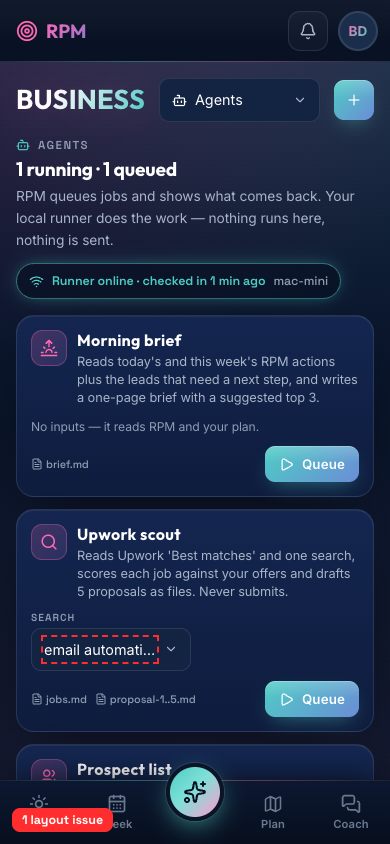
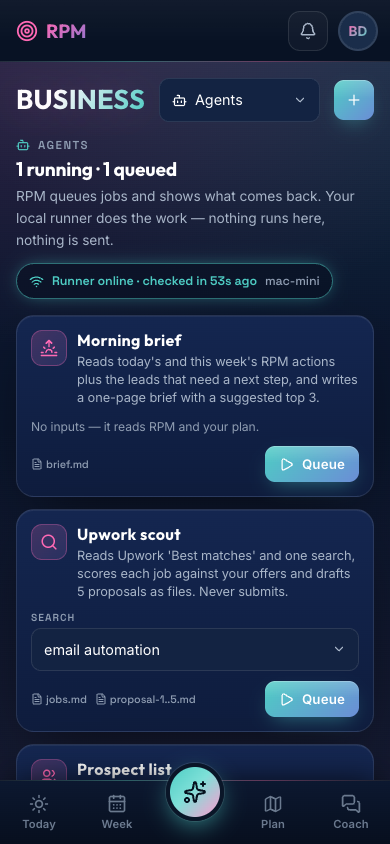
fix(business): critic round 4 — job pickers never clip, editor preview honours P0 override, revenue lines labelled
- Agents: every job input is full width under 640px and pickers carry their full value as a title.
- Editor live preview shows "Blocked by a P0" (+ the typed value) from the same backend readiness.
- Results / Revenue call revenue-model entries "revenue lines", not channels.
- fixes-1440 retaken page-tall so the "Not tied to an offer" section is visible.

Changed region(s): [[0.5231, 0.3081, 0.8615, 0.3697], [0.0308, 0.955, 0.3077, 0.9858], [0.3692, 0.7393, 0.4, 0.8009]]

diff --git a/rpm-system/frontend/src/components/business/Revenue.jsx b/rpm-system/frontend/src/components/business/Revenue.jsx
@@ -80,7 +80,7 @@ export default function Revenue() {
   return (
     <section className="bz-lens bz-revenue">
       <LensHead icon={TrendingUp} kicker="Revenue model" title={model.length ? `${money(total, cur)} ${scen} case` : 'No model yet'}
-        read={target ? `${Math.round((total / target) * 100)}% of the ${money(target, cur)} target in the ${scen} case. Expected cash per channel = volume × convert % × ticket.` : 'Link a cash key result on the mission flow to compare the model with your target.'}>
+        read={target ? `${Math.round((total / target) * 100)}% of the ${money(target, cur)} target in the ${scen} case. Each revenue line: volume × convert % × ticket (lines can span several channels).` : 'Link a cash key result on the mission flow to compare the model with your target.'}>
         {model.length > 0 && (
           <div className="ui-seg bz-seg-sm" role="radiogroup" aria-label="Scenario">
             {Object.entries(SCENARIOS).map(([k, m]) => (
@@ -88,12 +88,12 @@ export default function Revenue() {
             ))}
           </div>
         )}
-        {model.length > 0 && <button type="button" className="btn btn-secondary" onClick={() => setModel((m) => [...m, blank(m.length)])}><Plus size={16} /> Channel</button>}
+        {model.length > 0 && <button type="button" className="btn btn-secondary" onClick={() => setModel((m) => [...m, blank(m.length)])}><Plus size={16} /> Revenue line</button>}
       </LensHead>
 
       {model.length === 0 ? (
         <BizEmpty icon={TrendingUp} title="No revenue model yet" text="List the channels that could bring money, how many attempts you will make, what share converts and the ticket. You get a low / base / high forecast against your cash target."
-          onAdd={() => setModel([blank(0)])} addLabel="Add a channel" onTemplate={template} />
+          onAdd={() => setModel([blank(0)])} addLabel="Add a revenue line" onTemplate={template} />
       ) : (
         <div className="bz-rev" ref={setRoot}>
           <FlowLinks root={root} links={links} active={hot} simplify={phone} version={`${model.length}-${scen}-${phone}`} />
@@ -103,7 +103,7 @@ export default function Revenue() {
               return (
                 <article key={c.id || i} className="bz-rev-row" onMouseEnter={() => setHover(i)} onMouseLeave={() => setHover(null)}>
                   <header className="bz-rev-head">
-                    <textarea rows={1} className="bz-in bz-rev-name" aria-label="Channel name" placeholder="Channel name" value={c.name} onChange={(e) => set(i, 'name', e.target.value.replace(/\n/g, ' '))} />
+                    <textarea rows={1} className="bz-in bz-rev-name" aria-label="Revenue line name" placeholder="Revenue line (e.g. Upwork proposals)" value={c.name} onChange={(e) => set(i, 'name', e.target.value.replace(/\n/g, ' '))} />
                     <button type="button" className="bz-icon-btn" aria-label={`Remove ${c.name || 'channel'}`} onClick={() => setModel((m) => m.filter((_, j) => j !== i))}><Trash2 size={15} /></button>
                     <span className={`bz-rev-cash ${v > 0 ? '' : 'quiet'}`}>{money(v, cur)}</span>
                   </header>

diff --git a/rpm-system/frontend/src/components/business/bizKit.jsx b/rpm-system/frontend/src/components/business/bizKit.jsx
@@ -236,7 +236,7 @@ export function BizEditor({ section, row, defaults = {}, icon, onSave, onClose, 
           </div>
           <aside className="bz-ed-preview" aria-label="Live preview">
             <p className="ui-kicker">Live preview</p>
-            <EditorPreview section={section} fields={fields} form={form} options={dyn} />
+            <EditorPreview section={section} fields={fields} form={form} options={dyn} readiness={row ? ctx?.sum?.flow?.links?.offerReadiness?.[row.id] : null} />
           </aside>
         </div>
         <div className="modal-footer mk-foot">
@@ -262,13 +262,16 @@ const SHORT = new Set(['price', 'effort', 'platform', 'source', 'product', 'repo
 const isWide = (f) => f.wide || f.hero || !(SHORT.has(f.k) || ['date', 'enum', 'bool', 'number'].includes(f.type));
 
 /** What the row will look like, as you type: the card it becomes in its lens. */
-function EditorPreview({ section, fields, form, options }) {
+function EditorPreview({ section, fields, form, options, readiness }) {
   const hero = fields.find((f) => f.hero) || fields[0];
   const label = (f) => {
     const opts = f.optionsFrom ? options[f.optionsFrom] : f.options;
     return (opts || []).find((o) => o.value === form[f.k])?.label;
   };
-  const chips = fields.filter((f) => f.type === 'enum' && label(f) && form[f.k] !== '').map((f) => ({ k: f.k, text: label(f), tone: f.k === 'readiness' || f.k === 'tone' ? TONE_CHIP[form[f.k]] : f.k === 'fit' ? FIT[form[f.k]]?.tone : f.k === 'severity' ? (form[f.k] === 'P0' ? 'bad' : form[f.k] === 'P1' ? 'warn' : undefined) : undefined }));
+  // an open P0 blocker overrides the typed readiness (backend fixBlocks), exactly as on the offer card
+  const p0 = section === 'offers' && readiness?.p0Blocked;
+  const chips = fields.filter((f) => f.type === 'enum' && label(f) && form[f.k] !== '').map((f) => (p0 && f.k === 'readiness' ? { k: f.k, text: 'Blocked by a P0', tone: 'bad' } : { k: f.k, text: label(f), tone: f.k === 'readiness' || f.k === 'tone' ? TONE_CHIP[form[f.k]] : f.k === 'fit' ? FIT[form[f.k]]?.tone : f.k === 'severity' ? (form[f.k] === 'P0' ? 'bad' : form[f.k] === 'P1' ? 'warn' : undefined) : undefined }));
+  if (p0) chips.push({ k: 'was', text: `set: ${label(fields.find((f) => f.k === 'readiness'))}`, tone: undefined });
   const text = fields.filter((f) => f.type === 'textarea' && String(form[f.k] || '').trim()).slice(0, 2);
   const ladder = section === 'offers' ? String(form.ladder || '').split('\n').filter((l) => l.trim()).map((l) => l.split('|').map((x) => x.trim())) : [];
   const stage = section === 'leads' ? STAGES.findIndex((x) => x.value === form.stage) : -1;

diff --git a/rpm-system/frontend/src/components/business/Results.jsx b/rpm-system/frontend/src/components/business/Results.jsx
@@ -65,7 +65,8 @@ export default function Results() {
     agg[`${key}|${role}`] = (agg[`${key}|${role}`] || 0) + n;
     src[key] = (src[key] || 0) + n;
   }
-  const sources = Object.entries(src).map(([key, n]) => ({ key, label: key === '-' ? 'No channel' : key, n })).sort((a, b) => b.n - a.n);
+  const isLine = (key) => model.some((m) => m.name === key);
+  const sources = Object.entries(src).map(([key, n]) => ({ key, label: key === '-' ? 'No channel' : key, n, line: isLine(key) })).sort((a, b) => b.n - a.n);
   const roleN = {}; for (const [k, n] of Object.entries(agg)) { const role = k.split('|')[1]; roleN[role] = (roleN[role] || 0) + n; }
   const prev = { reply: 'sent', call: 'reply', proof: 'call', won: 'proof' };
   const outs = ORDER.filter((r) => roleN[r]).map((role) => {
@@ -158,10 +159,10 @@ export default function Results() {
           <div className="bz-sankey" ref={setRoot}>
             <FlowLinks root={root} links={links} simplify={phone} version={`${list.rows.length}-${phone}`} />
             <div className="bz-sankey-col" data-node-group="from">
-              <p className="bz-col-title">From channel</p>
+              <p className="bz-col-title">From channel or revenue line</p>
               {sources.map((c) => (
                 <div key={c.key} data-node={`rc:${c.key}`} className={`bz-node kind-src ${c.key === '-' ? 'quiet' : ''}`}>
-                  <span className="bz-node-name">{c.label}</span><b className="bz-node-n">{c.n}</b>
+                  <span className="bz-node-name">{c.label}{c.line && <small className="bz-node-sub">revenue line</small>}</span><b className="bz-node-n">{c.n}</b>
                 </div>
               ))}
             </div>
@@ -190,7 +191,7 @@ export default function Results() {
                           {r.views != null && <span> · {Number(r.views).toLocaleString()} views</span>}
                           <span className="bz-tl-date">{fmtDate(r.date)}</span></span>
                         <span className="bz-tl-meta">
-                          {r.channel && <span className="bz-entry-chan">from {chanLabel(r.channel)}</span>}
+                          {r.channel && <span className="bz-entry-chan">from {chanLabel(r.channel)}{isLine(chanLabel(r.channel)) ? ' (revenue line)' : ''}</span>}
                           {r.lead_id && leadName(r.lead_id) && <span className="bz-entry-lead">→ {leadName(r.lead_id)}</span>}
                         </span>
                         {r.note && <small>{r.note}</small>}

diff --git a/rpm-system/frontend/src/components/business/Agents.jsx b/rpm-system/frontend/src/components/business/Agents.jsx
@@ -152,7 +152,7 @@ export default function Agents() {
                     {job.inputs.map((f) => (
                       <label key={f.key} className="bz-job-field"><span>{f.label}</span>
                         {f.type === 'choice'
-                          ? <Picker value={valueOf(job, f)} header={f.label} options={f.options.map((o) => ({ value: o, label: o.replace('_', ' ') }))} onChange={(v) => setVal(job, f.key, v)} />
+                          ? <Picker value={valueOf(job, f)} header={f.label} title={`${f.label}: ${String(valueOf(job, f)).replace('_', ' ')}`} options={f.options.map((o) => ({ value: o, label: o.replace('_', ' ') }))} onChange={(v) => setVal(job, f.key, v)} />
                           : <input className="bz-in" value={valueOf(job, f)} maxLength={f.max || 200} onChange={(e) => setVal(job, f.key, e.target.value)} />}
                       </label>
                     ))}

diff --git a/rpm-system/frontend/src/components/business/Business.css b/rpm-system/frontend/src/components/business/Business.css
@@ -1025,3 +1025,6 @@
 /* agents: when the runner is online, setup shrinks to a link */
 .biz-page details.bz-howto.mini:not([open]) { border: 0; background: none; padding: 4px 0; margin-top: 4px; }
 .biz-page details.bz-howto.mini:not([open]) > summary { font-size: 0.66rem; color: var(--text-muted); }
+
+/* agents on narrow screens: every job input full width, so picker values never clip */
+@media (max-width: 640px) { .biz-page .bz-job-inputs { grid-template-columns: minmax(0, 1fr) !important; } .biz-page .bz-job-field .picker-trigger { width: 100%; } }
